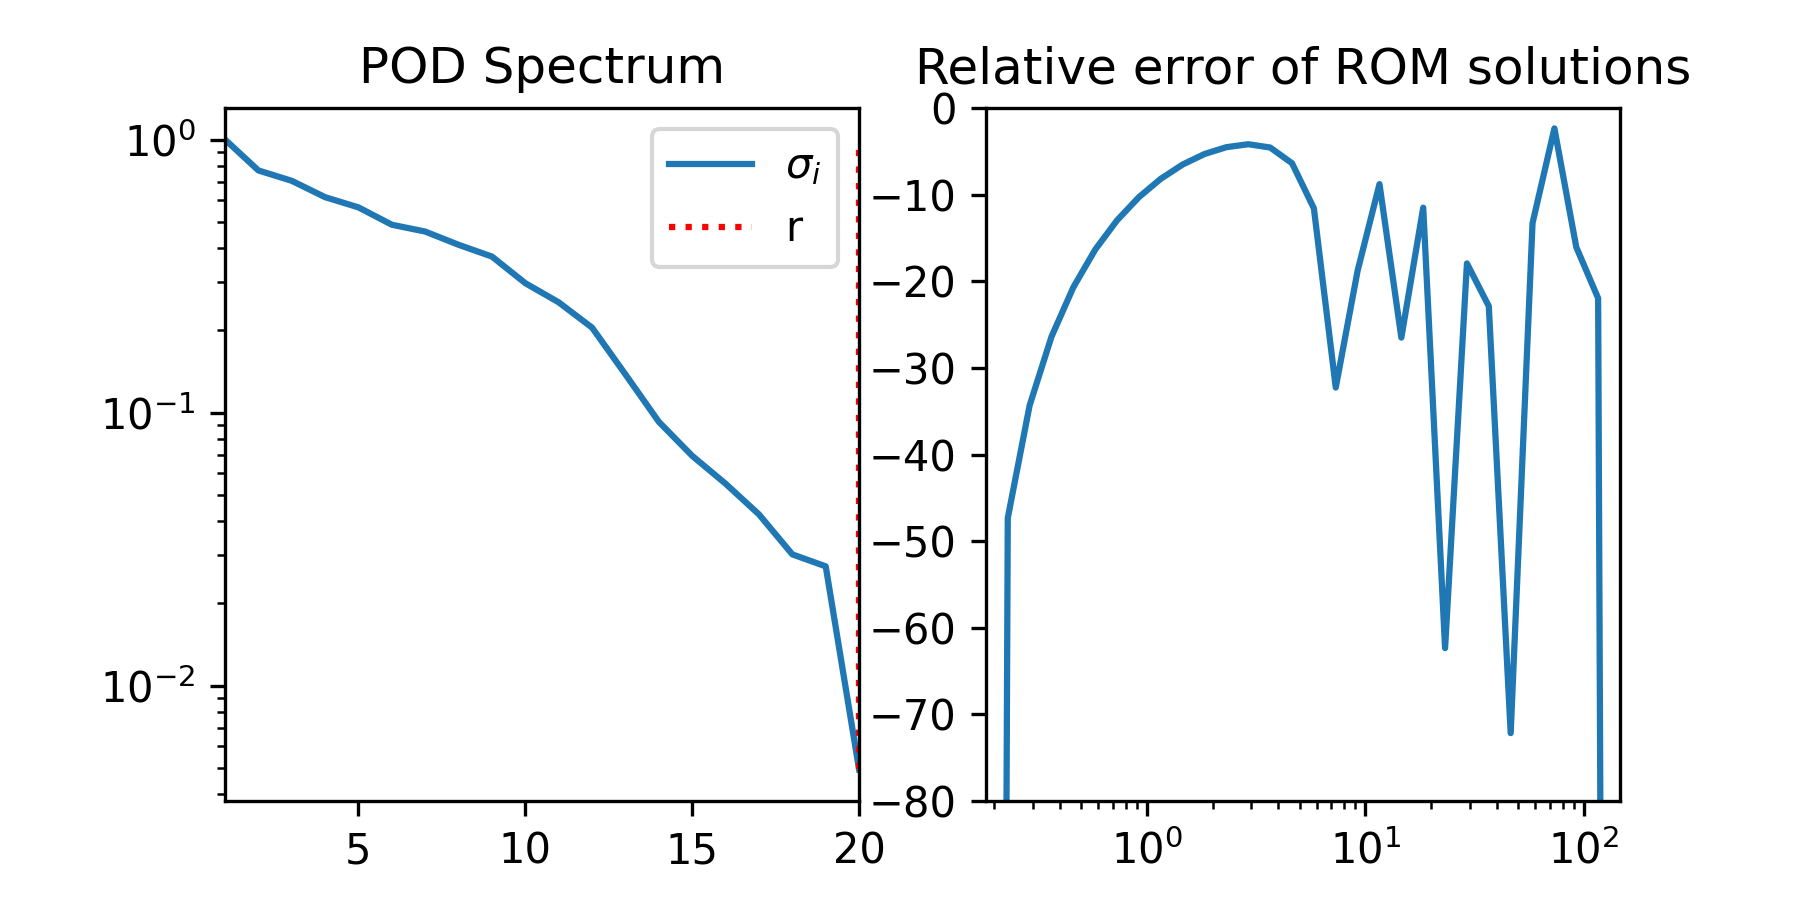
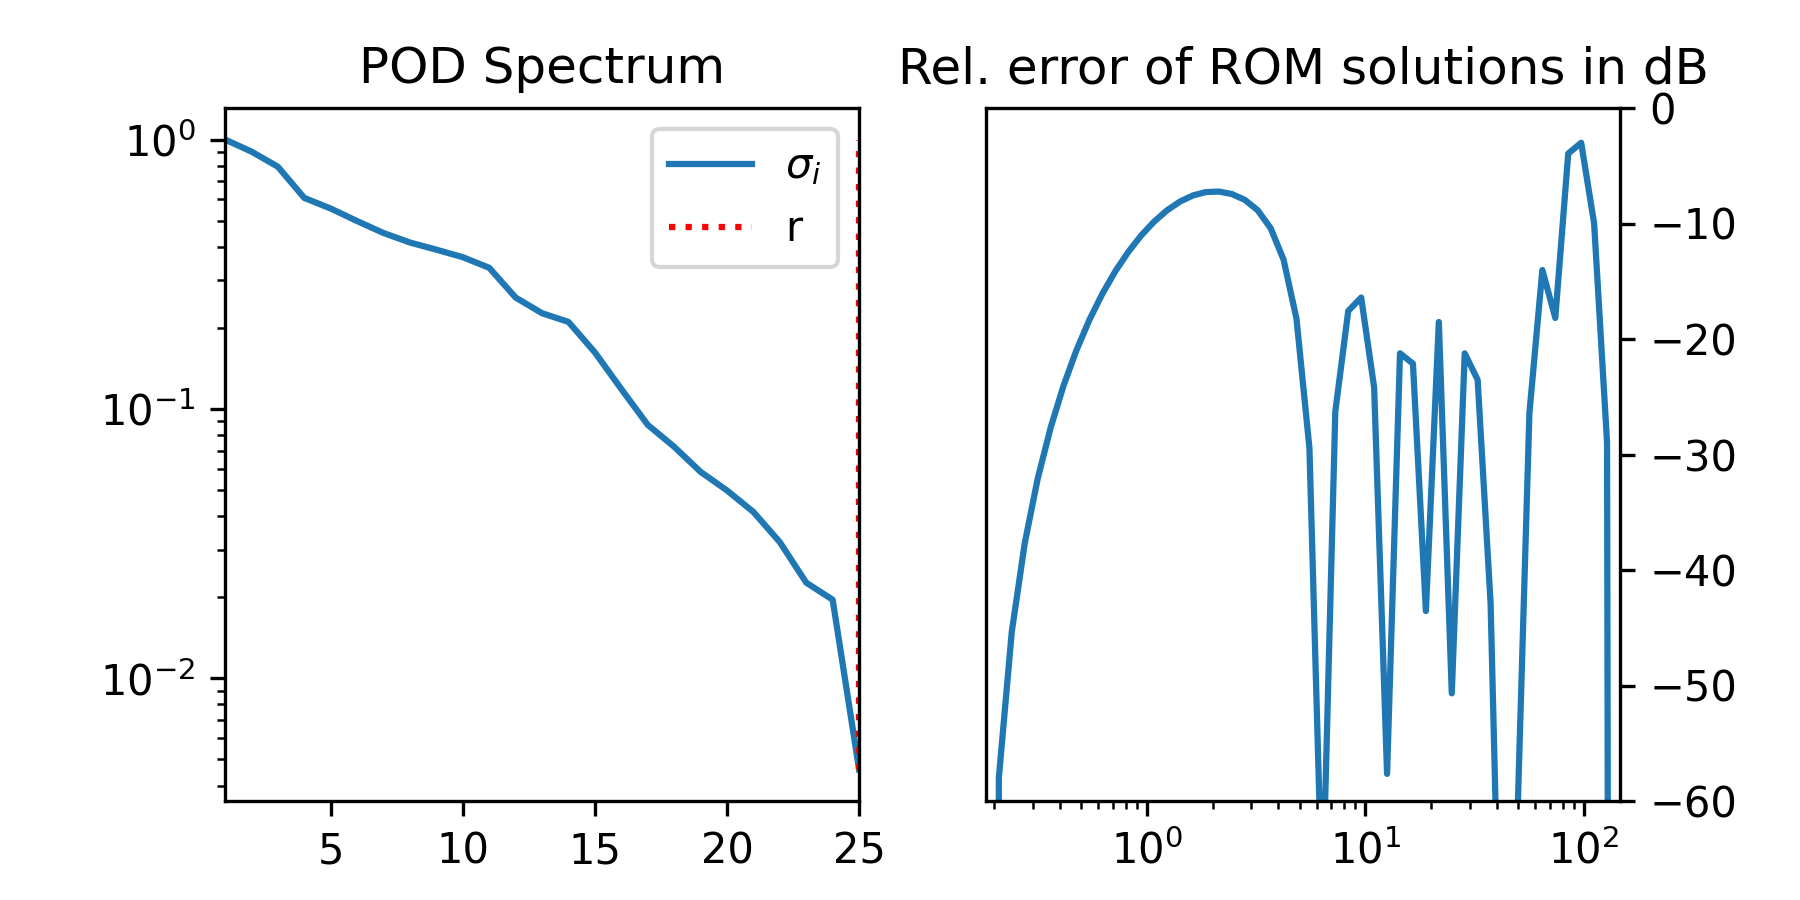
update plots

diff --git a/README.md b/README.md
@@ -1,6 +1,6 @@
 # pymor-bempp
 
-A simple demo showcasing the potential of model order reduction for BEM scattering problems combining [pyMOR](https://github.com/pymor/pymor) and [bempp-cl](https://github.com/bempp/bempp-cl).
+A simple demo showcasing the potential of model order reduction for BEM scattering problems combining [pyMOR](https://github.com/pymor/pymor) and [bempp-cl](https://github.com/bempp/bempp-cl) for the [sphere scattering tutorial](https://nbviewer.org/github/bempp/bempp-cl/blob/main/notebooks/helmholtz/helmholtz_combined_exterior.ipynb).
 
 ## Usage
 
@@ -10,12 +10,16 @@ Install the requirements listed in [requirements.txt](requirements.txt) and run 
 python sphere.py
 ```
 
-to construct a reduced order model according to the parameters at the top of the script or 
+to construct a reduced order model according to the parameters at the top of the script and produce something like
+
+![Plot1](./plots/rom_quality.png)
+
+or run
 
 ``` shell
 python visualize.py
 ```
 
-to compare the solutions of the full and reduced order models.
+to compare the solutions of the full and reduced order models and visualize them as
 
-![Plot1](./plots/rom_quality.png)
+![Plot2](./plots/sphere_10.png)
